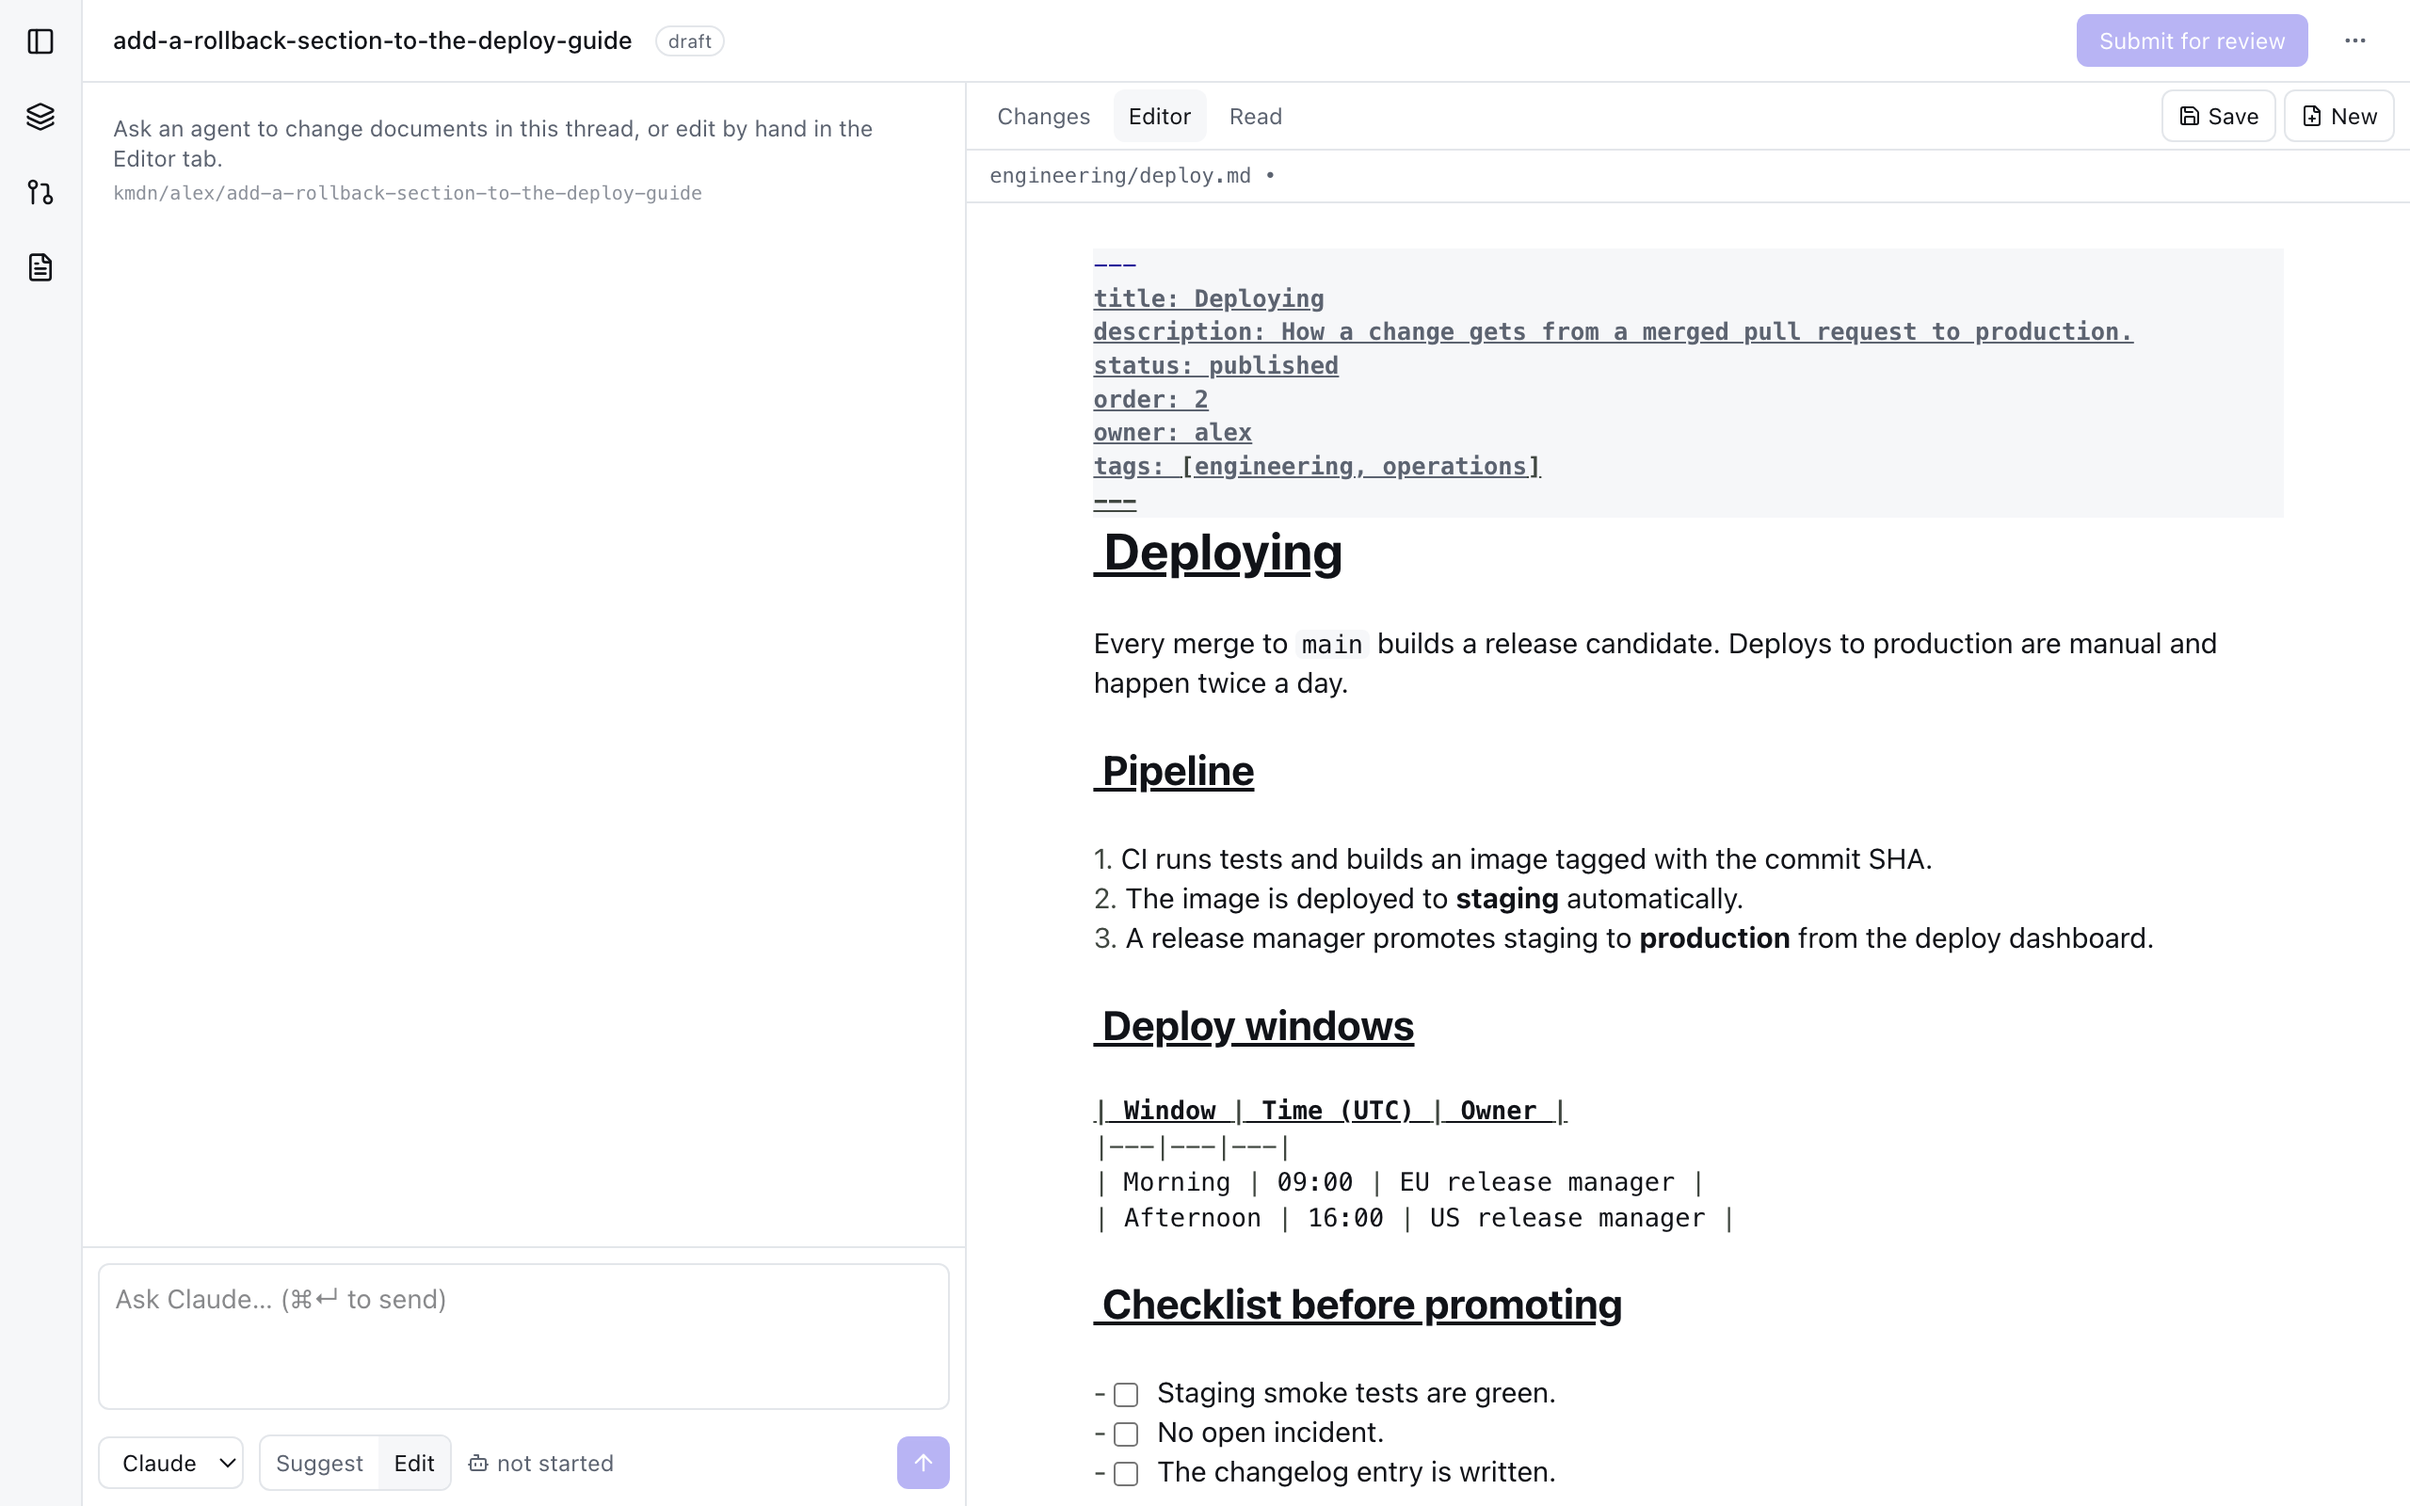
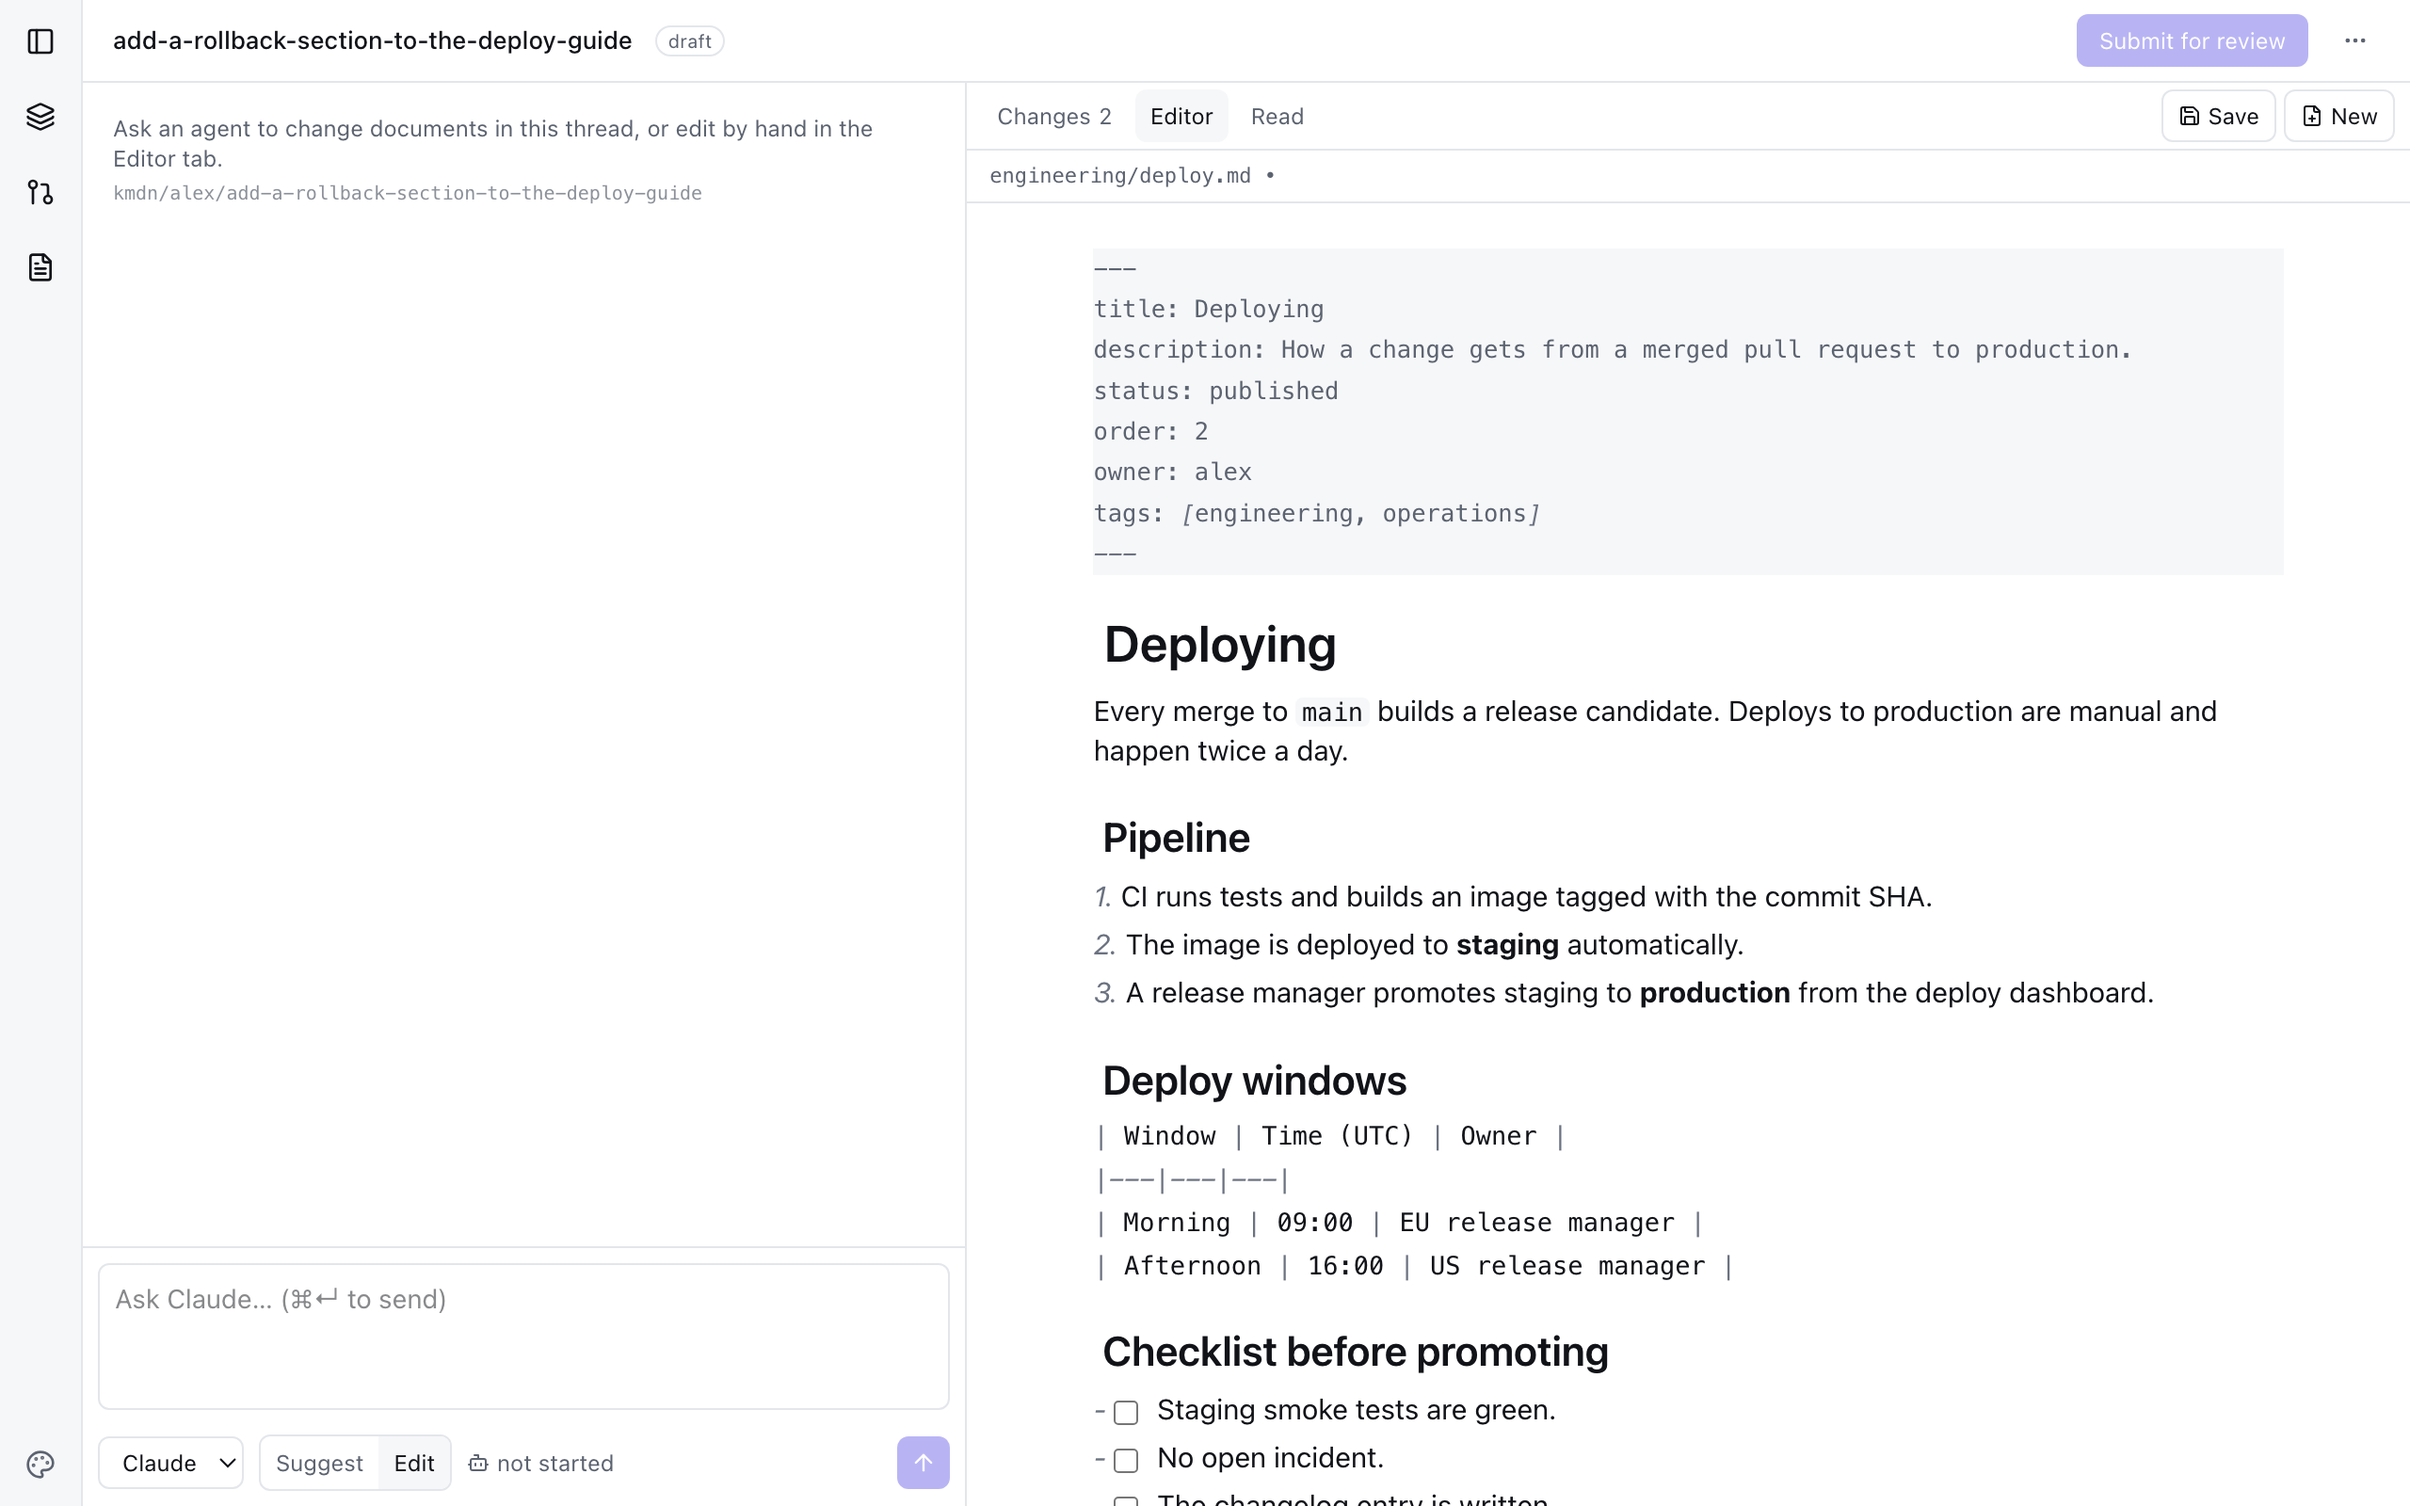
Docs: Appearance section, themes in the UI design, refreshed spacing screenshots

Changed region(s): [[0.4375, 0.1875, 0.9062, 1.0], [0.4688, 0.0625, 0.5312, 0.0938], [0.8438, 0.5938, 0.875, 0.625]]

diff --git a/docs/user-guide.md b/docs/user-guide.md
@@ -278,13 +278,33 @@ Also provider-dependent, so described in words. The **Reviews** section of the s
 
 ## Appearance
 
-kmdn follows the operating system's light or dark setting.
+Out of the box kmdn follows the operating system's light or dark setting. The **Appearance** dialog changes that, and more. Open it from the palette icon in the sidebar header, from the icon strip inside a thread, from the sign-in screen, or with the palette action **Appearance**. Everything in it is saved on this device only.
+
+![The Appearance dialog](screenshots/37-appearance.webp)
+
+**Themes.** System, Light, Dark, Catppuccin Latte, Frappé, Macchiato and Mocha, Nord, Gruvbox Dark, and Gruvbox Light. A theme recolours the whole app: chrome, sidebar, status pills, diff bars, the editor, and the syntax colours in code fences. Dark themes also switch native controls to dark.
+
+![Catppuccin Mocha in the editor](screenshots/38-theme-catppuccin-mocha.webp)
+
+![Nord on the Changes tab](screenshots/39-theme-nord.webp)
+
+![Gruvbox Light on Home](screenshots/40-theme-gruvbox-light.webp)
+
+**Fonts.** Three families: the interface, reading and editing (defaults to the interface font), and code. Each has presets (Inter, System, Serif, Humanist; JetBrains Mono, System, Fira Code, IBM Plex Mono) or takes a custom `font-family` list. Fonts have to be installed on the machine; kmdn does not download any.
+
+**Text size.** From 12 to 22 px for the reading and editing panes, with a live sample. The interface stays at 13 px.
+
+![Latte with a serif reading font at 17 px](screenshots/42-theme-latte-serif-editor.webp)
+
+**Notifications.** The three OS notifications (an agent needs approval, an agent finished while the window was unfocused, a new review appeared) each have a toggle here.
+
+**Reset** puts everything back to the defaults.
+
+The Read view, the diffs, and the editor share one set of spacing rules: room above headings, space between paragraphs and list items, padding around quotes, tables, and code blocks, so switching between Editor and Read does not move the text.
 
 ![Home in dark mode](screenshots/31-dark-home.webp)
 
 ![Changes in dark mode](screenshots/32-dark-thread.webp)
-
-![The editor in dark mode](screenshots/33-dark-editor.webp)
 
 ## Keyboard shortcuts
 
@@ -339,5 +359,4 @@ kmdn-cli init --name "Team handbook" --path /path/to/empty/folder
 - Renaming a thread, copying its branch, or opening its folder from the menu.
 - Developer mode in the agent picker, model pickers, `@document` mentions, and image attachments in the composer.
 - Review comments mirrored into the thread timeline, and agent assistance during review.
-- A settings screen. The app stores notification toggles per device but has no UI for them yet.
 - Windows and Linux packages. The build targets exist; I only exercised macOS for this guide.

diff --git a/docs/10-ui.md b/docs/10-ui.md
@@ -72,7 +72,7 @@ Reference: the web Codex at chatgpt.com/codex. Task-first. A thread is the unit 
 ## Notifications
 - OS notification: agent needs approval, agent finished while window unfocused, review requested from me.
 - Everything else: sidebar badges and thread dots.
-- Per-event toggles in settings.
+- Per-event toggles in the Appearance dialog.
 
 ## First run
 1. Sign in: GitHub or GitLab, device flow, or custom GitLab URL plus token.
@@ -83,7 +83,7 @@ Then Home. A non-blocking banner in the composer reports detected agents.
 ## Visual design
 - Density and chrome from Codex: thin 1px borders, 6px radius, no shadows, one accent color, muted status colors.
 - Reading panes get a wider measure and larger type than the sidebar and timeline.
-- Light and dark, following the OS, manual override.
+- Light and dark, following the OS, manual override. Themes as token sets: Catppuccin (Latte, Frappé, Macchiato, Mocha), Nord, Gruvbox light and dark; per-device font and text size choices in an Appearance dialog (#77).
 - Fonts: system UI or Inter for UI, JetBrains Mono for code.
 - Stack: Tailwind, shadcn/ui components on Radix primitives, tokens customized. Components live in the repo.
 
